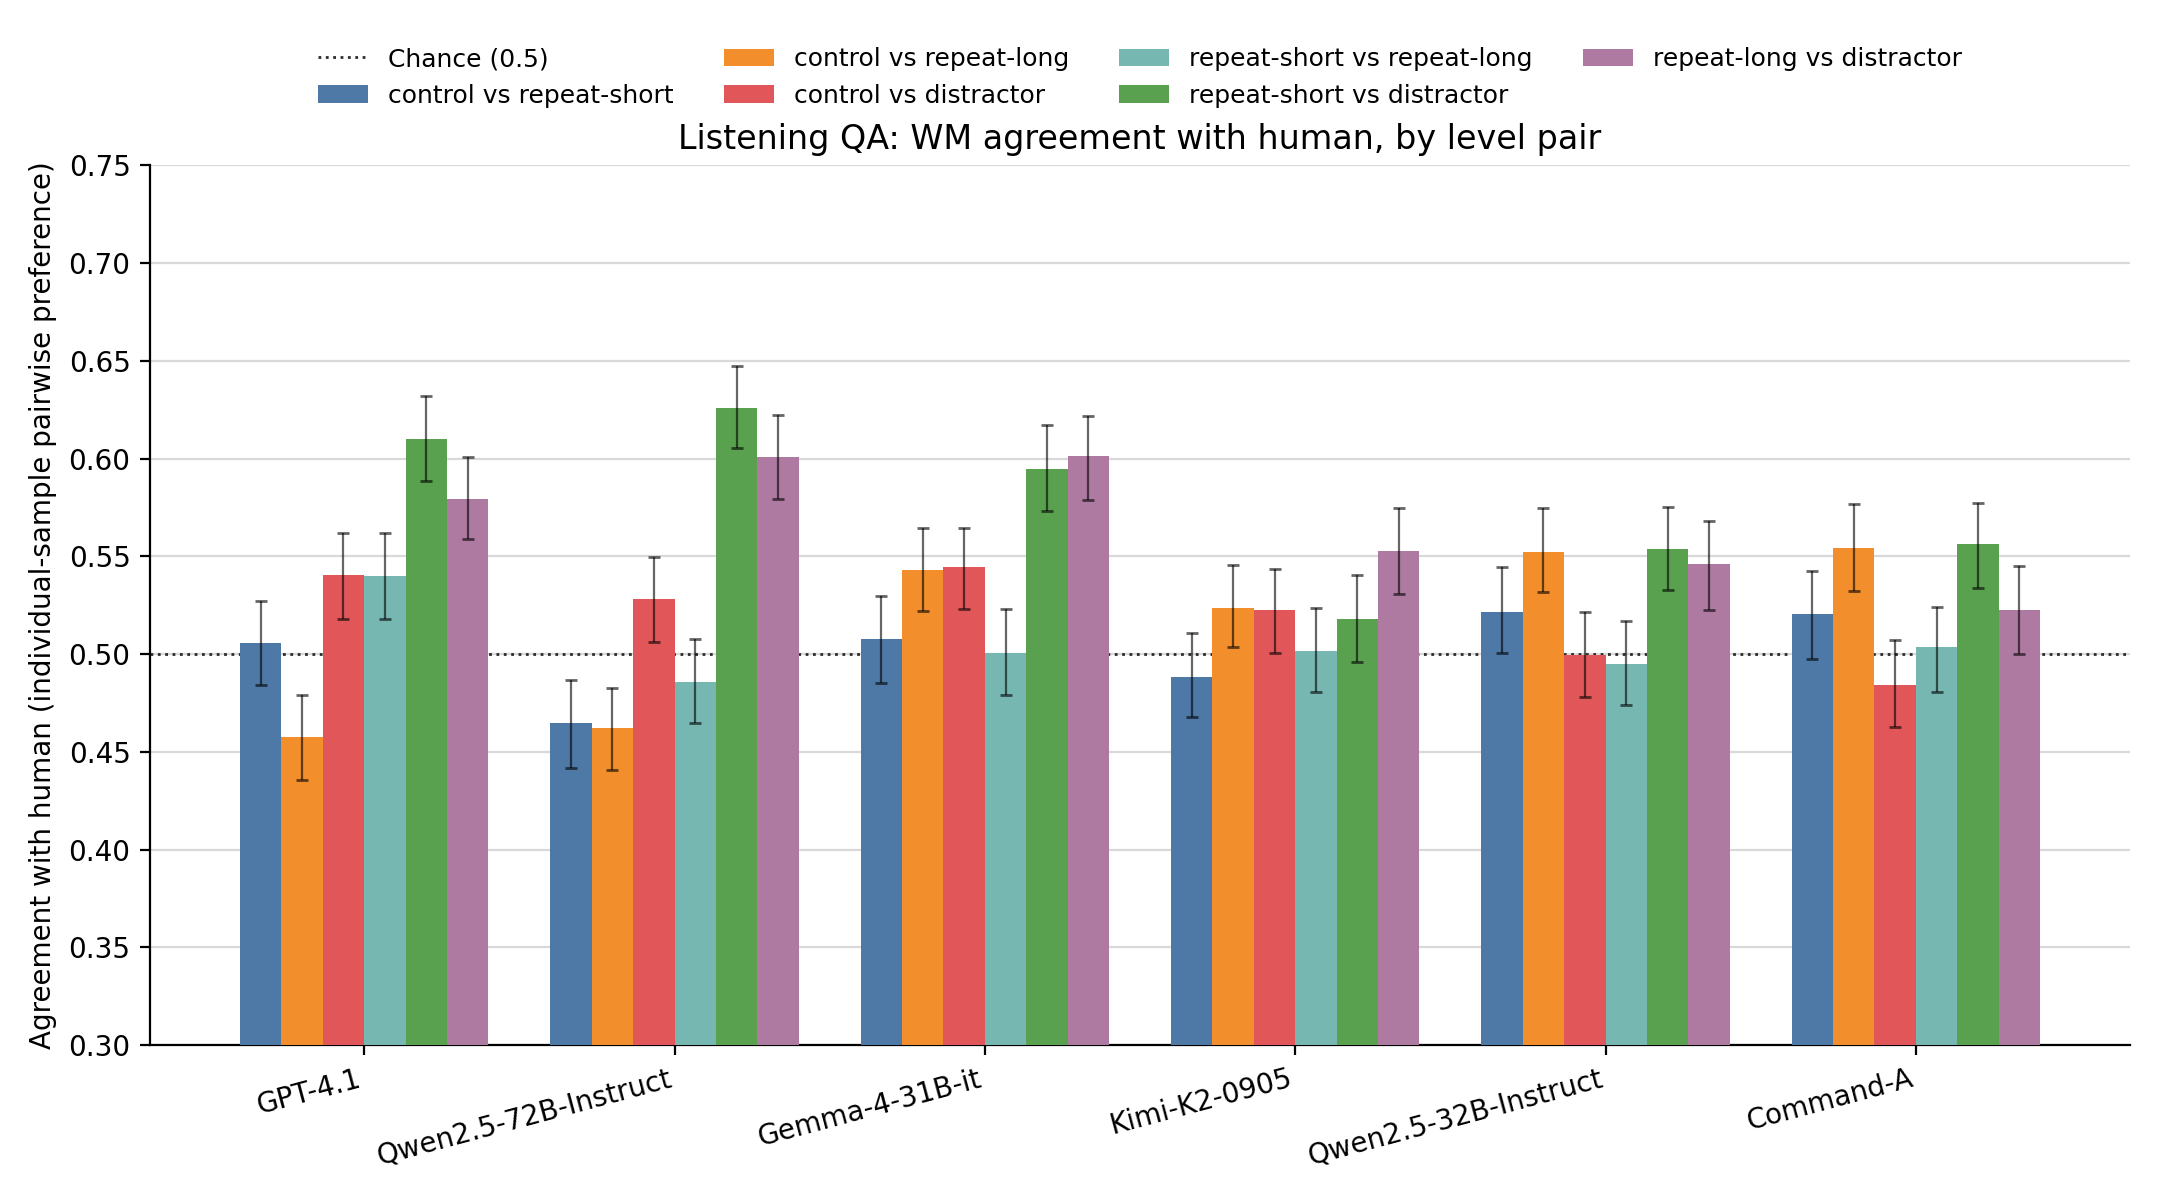
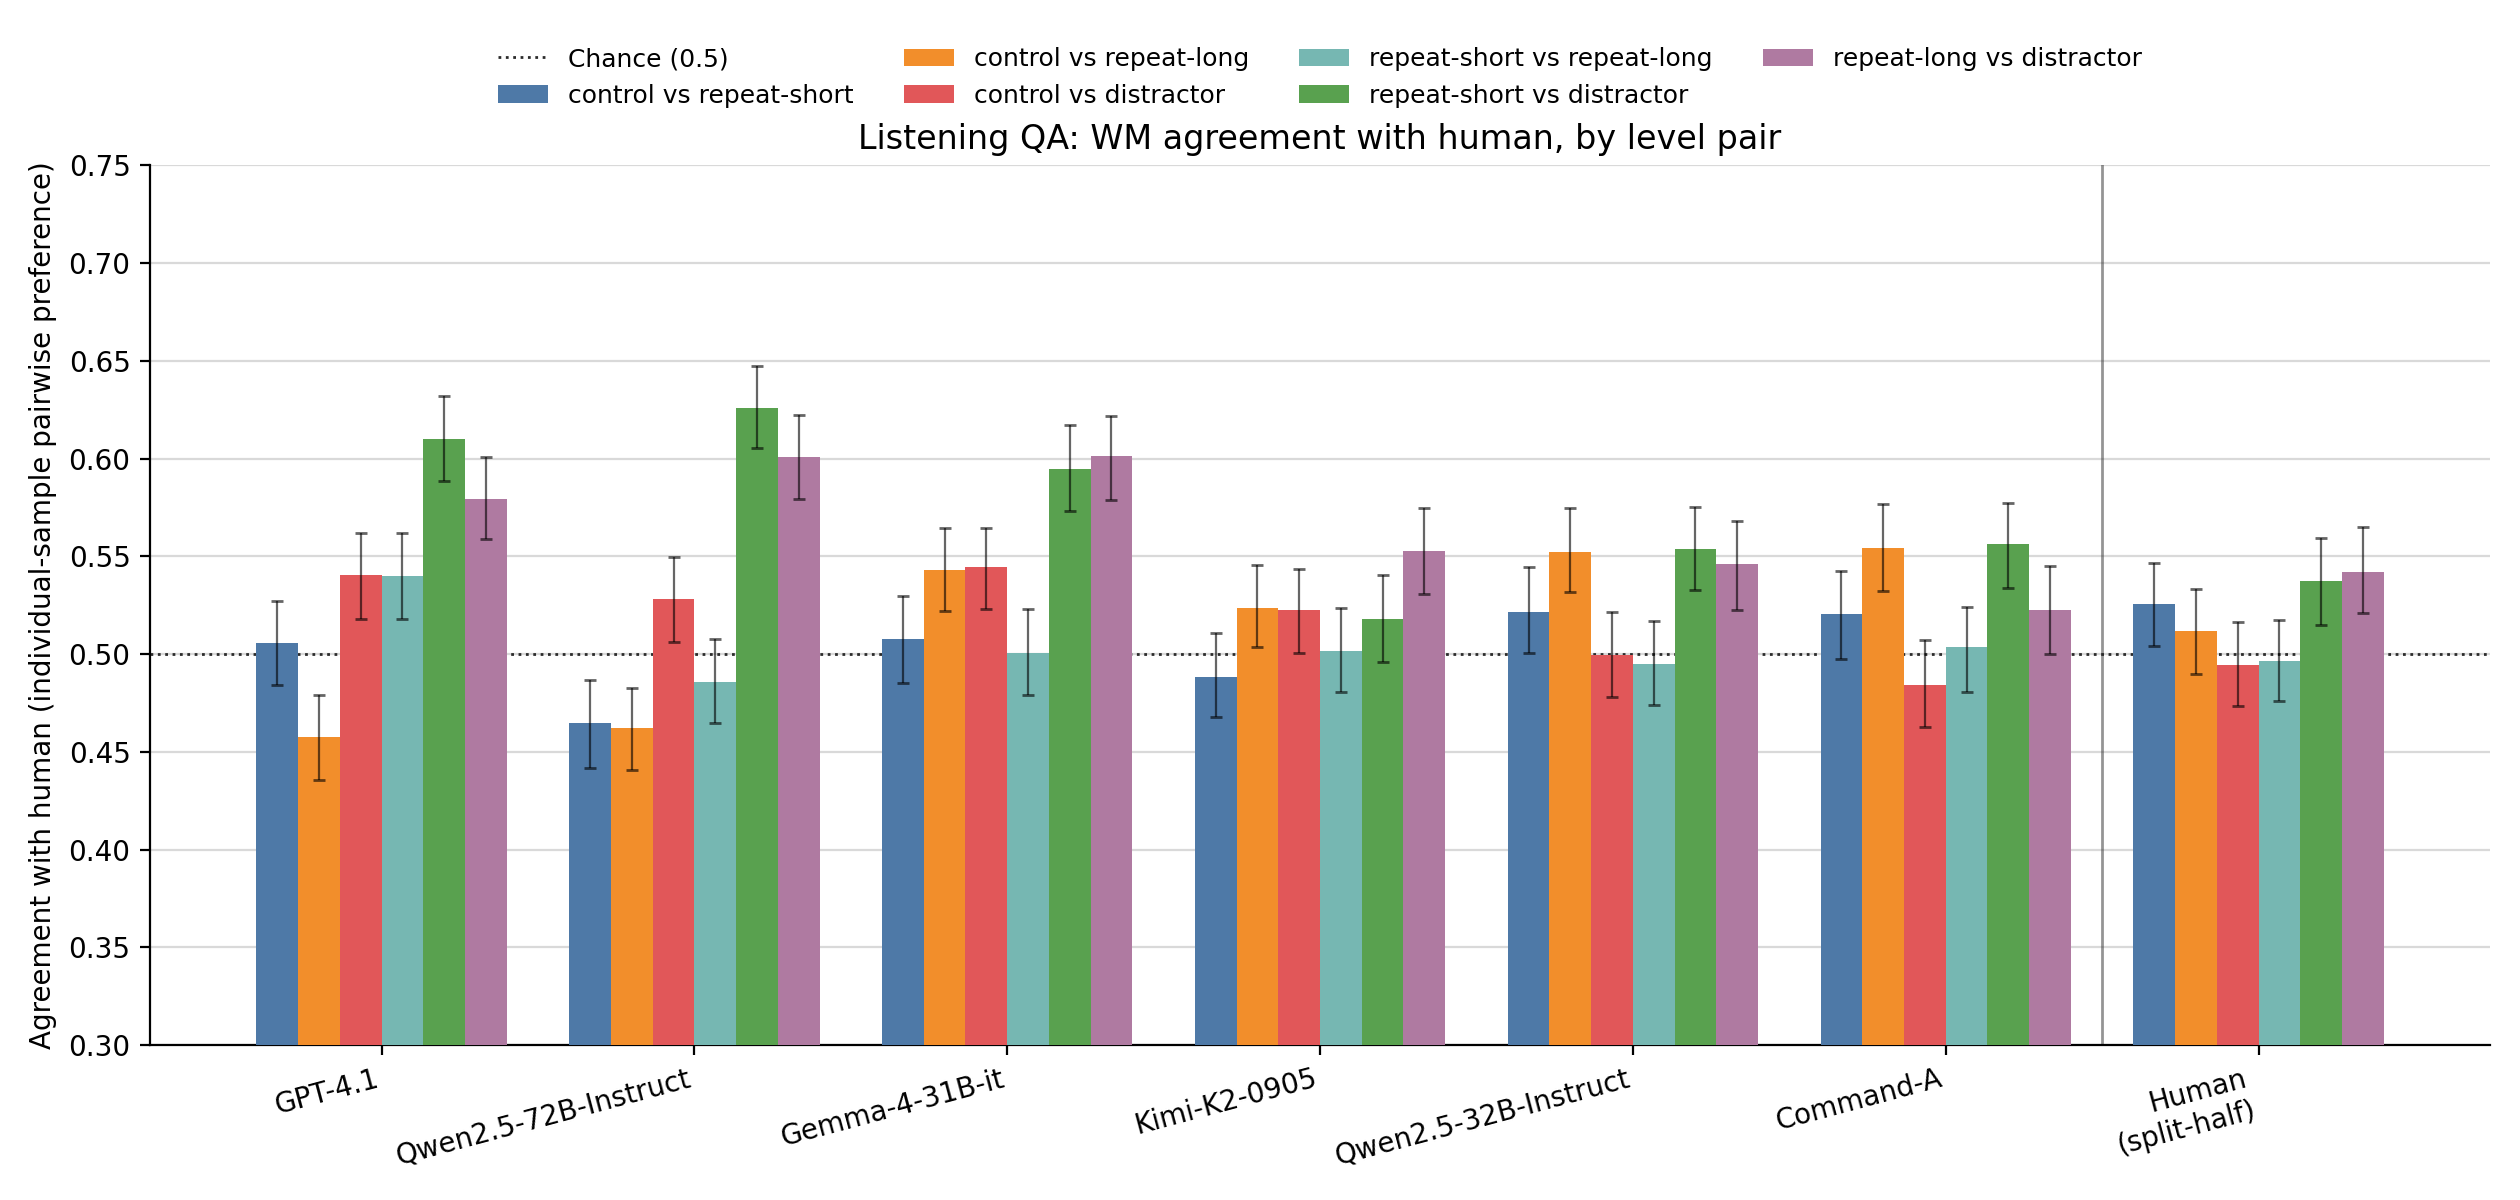
Add human-human split-half reliability column to pair-level breakdown
Splits participants into two random halves, treats one half as ground
truth and the other as a synthetic 'model' condition through the same
individual-sample pairwise-preference machinery used for LLMs. Gives
a noise-ceiling reference: the split-half agreement sits at ~0.49-0.54,
barely above chance, showing this is an inherently noisy comparison at
the individual-sample level — several models' distractor-pair scores
(0.55-0.63) actually match or exceed the human-human ceiling.

Claude-Session: https://claude.ai/code/session_01Cavn5C6Z7snCbR2oUzfLFM

diff --git a/application/plot_listening_qa_pair_level_breakdown.py b/application/plot_listening_qa_pair_level_breakdown.py
@@ -10,7 +10,11 @@ Usage:
 """
 from __future__ import annotations
 
+import csv
 import json
+import random
+import sys
+from collections import defaultdict
 from pathlib import Path
 
 import matplotlib
@@ -19,6 +23,16 @@ matplotlib.use("Agg")
 import matplotlib.pyplot as plt
 
 REPO_ROOT = Path(__file__).resolve().parents[1]
+if str(REPO_ROOT) not in sys.path:
+    sys.path.insert(0, str(REPO_ROOT))
+
+from application.listening_qa.level_pair_preference_alignment import (  # noqa: E402
+    DEFAULT_HUMAN_CSV,
+    HUMAN_TOPIC_MAP,
+    LEVELS,
+    enumerate_base_pairs,
+    run_individual_samples,
+)
 
 # (display name, pair-alignment JSON path) — the 6 models that cleared the
 # model-screening bar, matching MODELS in plot_listening_qa_alignment_slopeplots.py.
@@ -73,6 +87,70 @@ PAIR_COLORS = {
 }
 
 
+def _load_human_by_pid(human_csv: Path) -> dict[str, dict[str, dict[str, list[float]]]]:
+    """pid -> topic -> level -> list of per-trial exact-match accuracies (kept
+    separate per pid so callers can split participants into halves). Same
+    aggregation as level_pair_preference_alignment.load_human_topic_level_accuracies,
+    just not collapsed across participants."""
+    raw = list(csv.DictReader(human_csv.open()))
+    by_trial: dict[tuple[str, str, str], list[int]] = defaultdict(list)
+    for r in raw:
+        topic = HUMAN_TOPIC_MAP.get(r["topic"])
+        if topic is None:
+            continue
+        by_trial[(r["pid"], topic, r["condition"])].append(int(r["correct"]))
+
+    by_pid: dict[str, dict[str, dict[str, list[float]]]] = defaultdict(lambda: defaultdict(lambda: defaultdict(list)))
+    for (pid, topic, level), corrects in by_trial.items():
+        if level not in LEVELS:
+            continue
+        exact = sum(corrects) / len(corrects)
+        by_pid[pid][topic][level].append(exact)
+    return {pid: dict(topics) for pid, topics in by_pid.items()}
+
+
+def split_half_by_level_pair(
+    human_csv: Path, *, seed: int = 42, n_samples_per_pair: int = 500
+) -> dict[str, tuple[float, float, float]]:
+    """Split participants into two random halves; treat half A as ground truth
+    and half B as a synthetic 'model' condition, running the same individual-
+    sample pairwise-preference machinery used for LLMs vs. human. This gives a
+    split-half reliability estimate — the noise ceiling any model could hit."""
+    by_pid = _load_human_by_pid(human_csv)
+    pids = sorted(by_pid.keys())
+    rng = random.Random(seed)
+    rng.shuffle(pids)
+    half = len(pids) // 2
+    half_a_pids, half_b_pids = set(pids[:half]), set(pids[half:])
+
+    def pool(pid_set: set[str]) -> dict[str, dict[str, list[float]]]:
+        out: dict[str, dict[str, list[float]]] = defaultdict(lambda: defaultdict(list))
+        for pid in pid_set:
+            for topic, levels in by_pid[pid].items():
+                for level, accs in levels.items():
+                    out[topic][level].extend(accs)
+        return {t: dict(ls) for t, ls in out.items()}
+
+    human_a = pool(half_a_pids)
+    human_b = pool(half_b_pids)
+    topics = sorted(set(human_a.keys()) | set(human_b.keys()))
+    base_pairs = enumerate_base_pairs(topics)
+    result = run_individual_samples(
+        llm={"HalfB": human_b},
+        human=human_a,
+        base_pairs=base_pairs,
+        eval_conditions=["HalfB"],
+        seed=seed,
+        n_samples_per_pair=n_samples_per_pair,
+    )
+    by_lp = result["accuracy_by_condition"]["HalfB"]["by_level_pair"]
+    return {
+        lp: (row["agreement"], row["ci_lo"], row["ci_hi"])
+        for lp, row in by_lp.items()
+        if row["agreement"] is not None
+    }
+
+
 def plot_pair_level_breakdown(out_path: Path, condition: str = "WM") -> None:
     data: dict[str, dict[str, tuple[float, float, float]]] = {}
     for name, path in MODELS:
@@ -83,8 +161,9 @@ def plot_pair_level_breakdown(out_path: Path, condition: str = "WM") -> None:
             for lp, row in by_lp.items()
             if row["agreement"] is not None
         }
+    data["Human\n(split-half)"] = split_half_by_level_pair(DEFAULT_HUMAN_CSV)
 
-    model_names = [name for name, _path in MODELS]
+    model_names = [name for name, _path in MODELS] + ["Human\n(split-half)"]
     n_models = len(model_names)
     n_pairs = len(PAIR_ORDER)
     width = 0.8 / n_pairs
@@ -102,6 +181,7 @@ def plot_pair_level_breakdown(out_path: Path, condition: str = "WM") -> None:
         )
 
     ax.axhline(CHANCE, color=INK, linestyle=":", linewidth=1, zorder=2, label="Chance (0.5)")
+    ax.axvline(n_models - 1.5, color=INK, linestyle="-", linewidth=1, zorder=2, alpha=0.5)
     ax.set_xticks(range(n_models))
     ax.set_xticklabels(model_names, rotation=15, ha="right")
     ax.set_ylim(0.3, 0.75)
